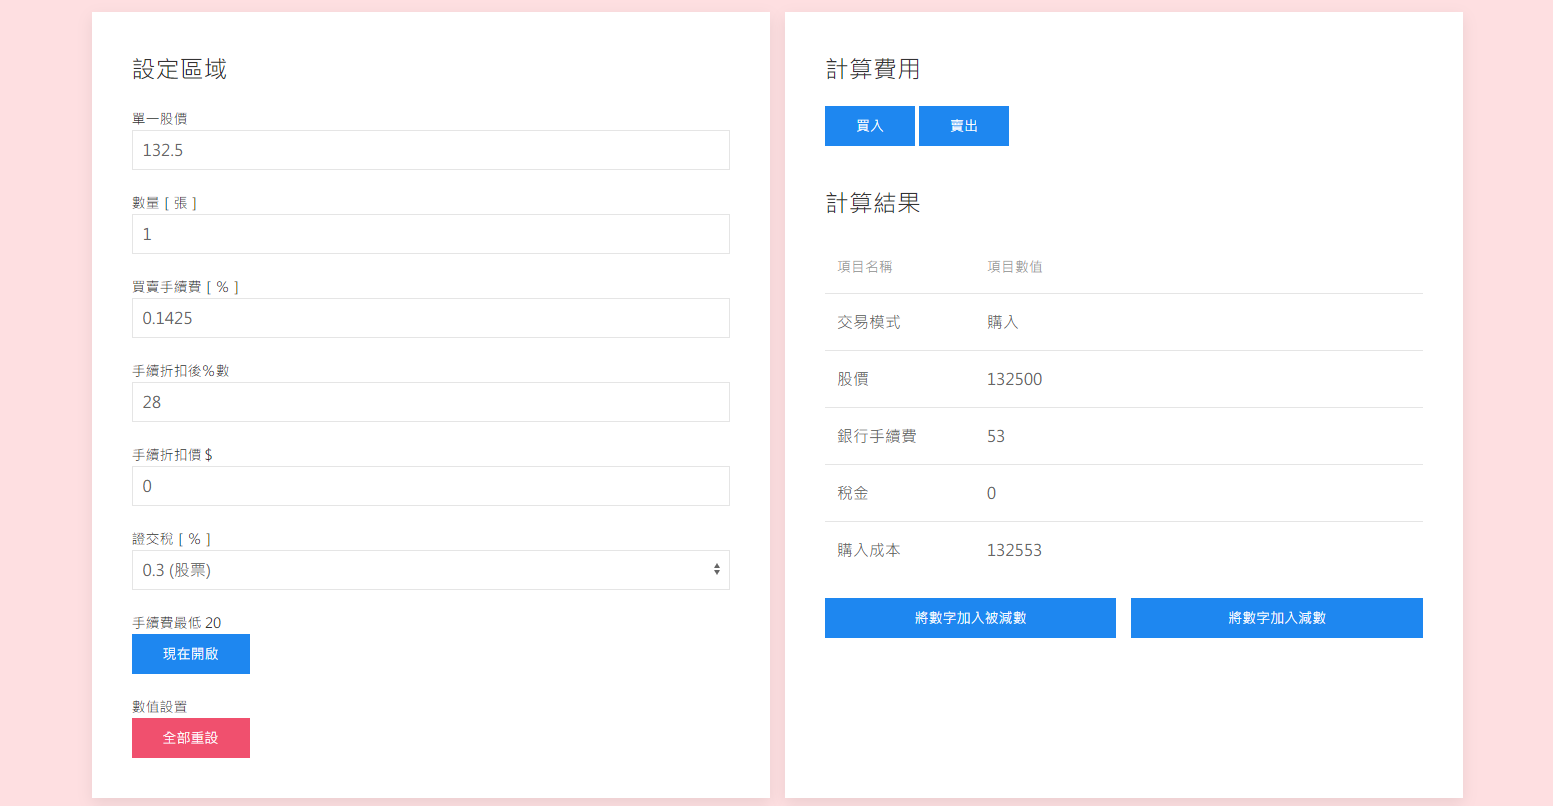
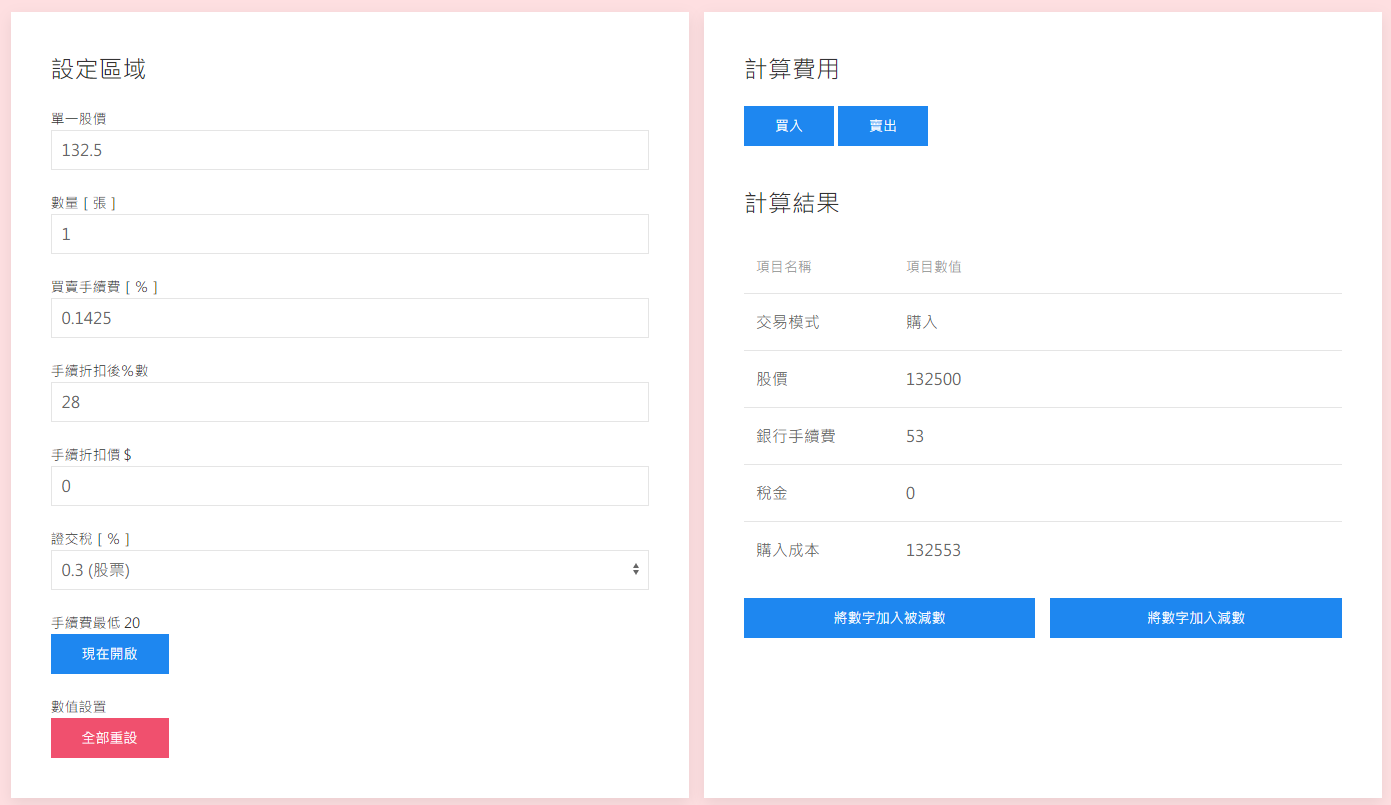
div finction add and Img changed

diff --git a/pages/projects/meowluStockCalc.html b/pages/projects/meowluStockCalc.html
@@ -186,14 +186,24 @@
 	<div style="background-color: #FEDFE1;" class="py-4" id="funcArea">
 		<div class="container">
 			<div class="row">
-				<div class="col-12 d-flex align-items-center justify-content-center" id="selectFuncShow1">
+				<div class="col-auto d-flex align-items-center" onclick="changeDiv(-1)">
+					<p class="fs-1 m-0">
+						<i class="fas fa-angle-left"></i>
+					</p>
+				</div>
+				<div class="col d-flex align-items-center justify-content-center" id="selectFuncShow1">
 					<img src="../../assets/imgs/meowluStockCalc/priceCalc.png" class="img-fluid rounded mb-2" alt="...">
 				</div>
-				<div class="col-12 d-flex align-items-center justify-content-center d-none" id="selectFuncShow2">
+				<div class="col d-flex align-items-center justify-content-center d-none" id="selectFuncShow2">
 					<img src="../../assets/imgs/meowluStockCalc/trendCalc.png" class="img-fluid rounded mb-2" alt="...">
 				</div>
-				<div class="col-12 d-flex align-items-center justify-content-center d-none" id="selectFuncShow3">
+				<div class="col d-flex align-items-center justify-content-center d-none" id="selectFuncShow3">
 					<img src="../../assets/imgs/meowluStockCalc/quickCalc.png" class="img-fluid rounded mb-2" alt="...">
+				</div>
+				<div class="col-auto d-flex align-items-center" onclick="changeDiv(1)">
+					<p class="fs-1 m-0">
+						<i class="fas fa-angle-right"></i>
+					</p>
 				</div>
 			</div>
 		</div>
@@ -206,8 +216,22 @@
 	</footer>
 	
 	<script>
+		var showDivNum = 1;
+		var maxType = 3;
+		function changeDiv(gap) {
+			if (showDivNum + gap <=0) {
+				showDivNum = maxType;
+			}
+			else if (showDivNum + gap > maxType) {
+				showDivNum = 1;
+			}
+			else{
+				showDivNum = showDivNum + gap;
+			}
+			activeSelectFunc(showDivNum);
+		}
 		function activeSelectFunc(a) {
-			for(let i =1;i<=3;i++){
+			for(let i = 1 ; i <= maxType ; i++){
 				let removeList = ["border-bottom","border-4","border-success","border-danger","border-warning"];
 				document.getElementById("selectFunc"+i).classList.remove(...removeList);
 				removeList = ["d-none"];
